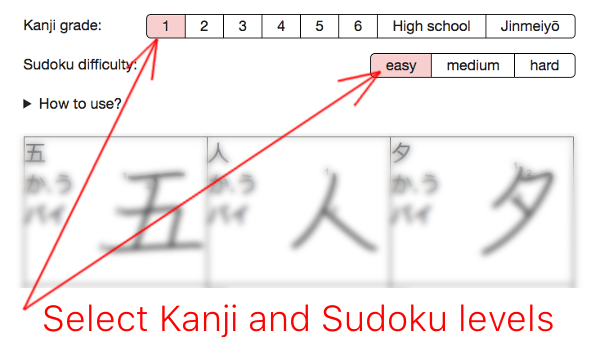
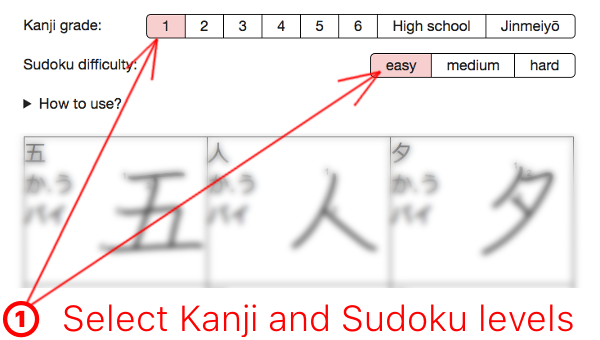
Swap howto pages; gfx update

Changed region(s): [[0.0, 0.8824, 0.96, 1.0]]

diff --git a/index.html b/index.html
@@ -1,5 +1,6 @@
 <!DOCTYPE html>
 <html><head>
+<meta charset="UTF-8">
 <meta name="google" value="notranslate">
 <script src="https://unpkg.com/react@15.3.2/dist/react.js"></script>
 <script src="https://unpkg.com/react-dom@15.3.2/dist/react-dom.js"></script>
@@ -29,7 +30,8 @@ input:disabled { background:#ccc ! important; border-color: #ccc ! important; te
                  border: 1px solid black;
                  margin-left: -1px; margin-right: 0px;
                  border-radius: 0;
-                 padding: 0em 1em; }
+                 padding: 0em 1em;
+                 cursor: pointer; }
 .select-button:hover { background-color: #eee; }
 .selected { background-color: #fcc; }
 
@@ -43,7 +45,8 @@ input:disabled { background:#ccc ! important; border-color: #ccc ! important; te
         line-height: initial;
         overflow: hidden; }
 .card img { width: 10vmin; height: 10vmin; object-fit: contain; float: right; padding: 0.5em; }
-img.help { box-sixing: border-box; width: 100%; border: 1px solid silver; }
+img.help { box-sixing: border-box; width: 100%; border: 1px solid silver; cursor: pointer; }
+img.hidden { display: none; }
 div.stroke { font-size: 15vmin; float: right; }
 .card div { display: inline-block; width: auto; }
 
@@ -115,6 +118,29 @@ function sudoku_board(diff="easy") {
             ".284.531."];
 }
 
+class HowTo extends React.Component {
+    constructor(props) {
+        super(props);
+        this.state = {n:0};
+        this.next = this.next.bind(this);
+    }
+
+    render() {
+        return (
+            <details className="select-container">
+                <summary>How to use?</summary>
+                <img className={this.state.n == 0 ? "help" : "hidden"} src="./img/howto1.png" onClick={this.next}/>
+                <img className={this.state.n == 1 ? "help" : "hidden"} src="./img/howto2.png" onClick={this.next}/>
+                <img className={this.state.n == 2 ? "help" : "hidden"} src="./img/howto3.png" onClick={this.next}/>
+            </details>
+        );
+    }
+
+    next() {
+        this.setState({n: (this.state.n + 1) % 3});
+    }
+}
+
 class Sudoku extends React.Component {
     constructor(props) {
         super(props);
@@ -180,12 +206,7 @@ class Sudoku extends React.Component {
                 <div className="select-container">
                     <div className="select-title">Sudoku difficulty:</div>{difficulties.map(this.diff_button)}
                 </div>
-                <details className="select-container">
-                    <summary>How to use?</summary>
-                    <img className="help" src="./img/howto1.png" />
-                    <img className="help" src="./img/howto2.png" />
-                    <img className="help" src="./img/howto3.png" />
-                </details>
+            <HowTo></HowTo>
             </div>
             <div className="description">
                 {this.state.kanji.map(this.card)}
